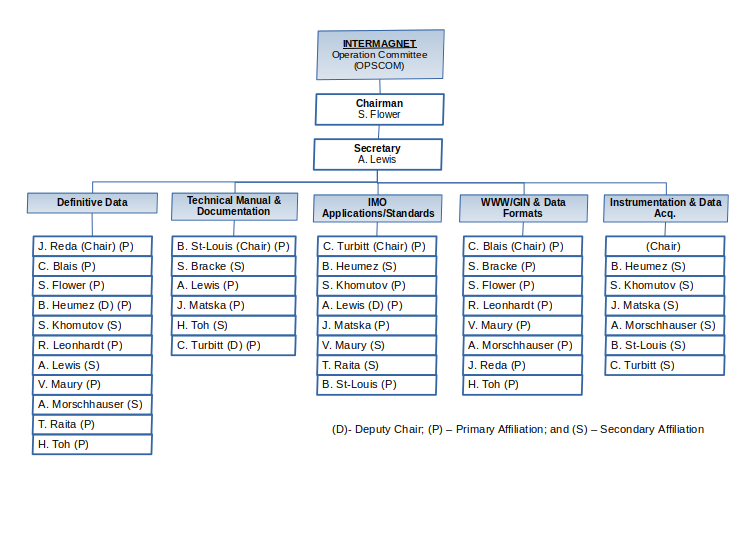
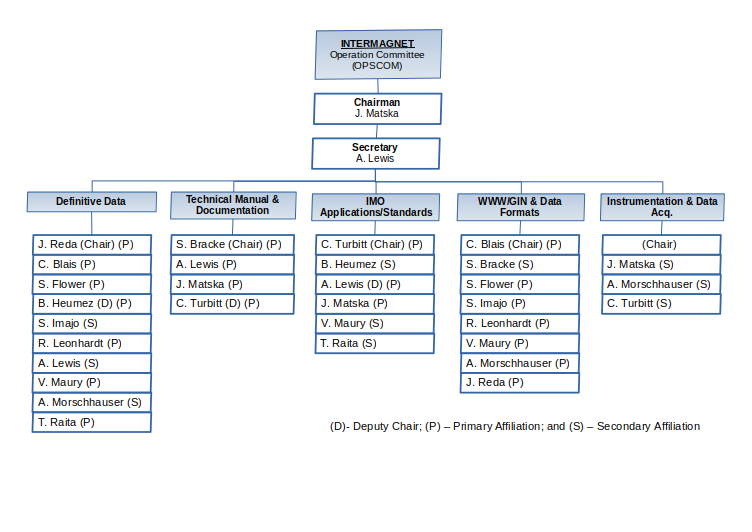
changed organisational structure

diff --git a/chapters/intermagnet/management.rst b/chapters/intermagnet/management.rst
@@ -13,10 +13,12 @@ international scientific and funding agencies.
     :align: center
 
     ============== =========================
-    Alan Thomson   United Kingdom (Chairman)
-    David Boteler  Canada
+    David Boteler  Canada (Chairman)
+    Ellen Clarke   United Kingdom
     Gauthier Hulot France
     Kristen Lewis  United States of America
+    Andrew Lewis   Australia
+    Jürgen Matzka  Germany
     ============== =========================
 
 The Operations Committee advises the Executive Council on
@@ -35,7 +37,7 @@ transmission characteristics which optimize global exchange.
     Stephan Bracke         Belgium
     Simon M. Flower        United Kingdom
     Benoit Heumez          France
-    Sergey Khomutov        Russia
+    Shun Imajo             Japan
     Roman Leonhardt        Austria
     Andrew Lewis           Australia
     Jürgen Matzka          Germany
@@ -43,8 +45,6 @@ transmission characteristics which optimize global exchange.
     Achim Morschhauser     Germany
     Tero Raita             Finland
     Jan Reda               Poland
-    Benoit J. St-Louis     Canada
-    Hiroaki Toh            Japan
     Christopher W. Turbitt United Kingdom
     ====================== ==============
 
